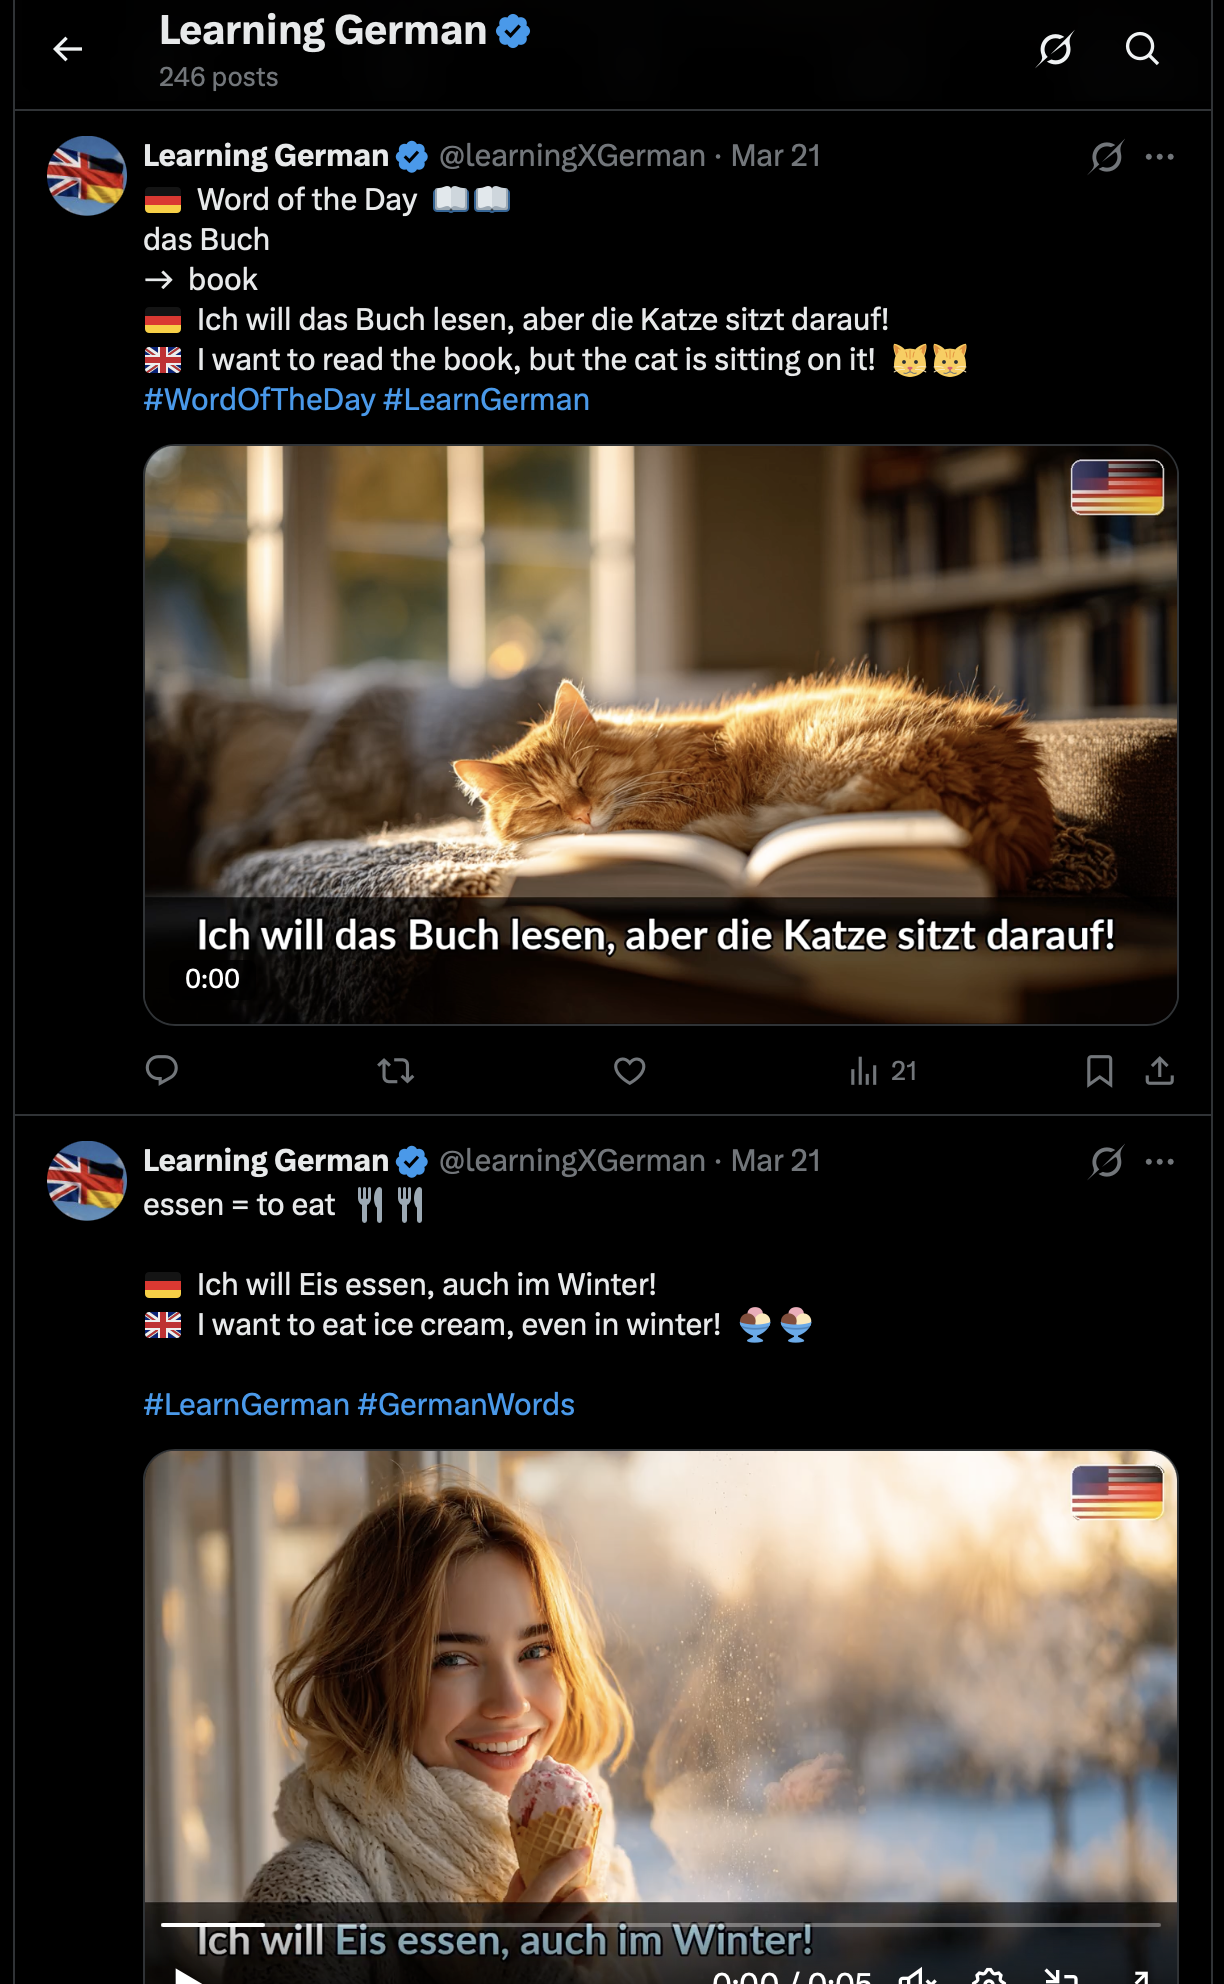
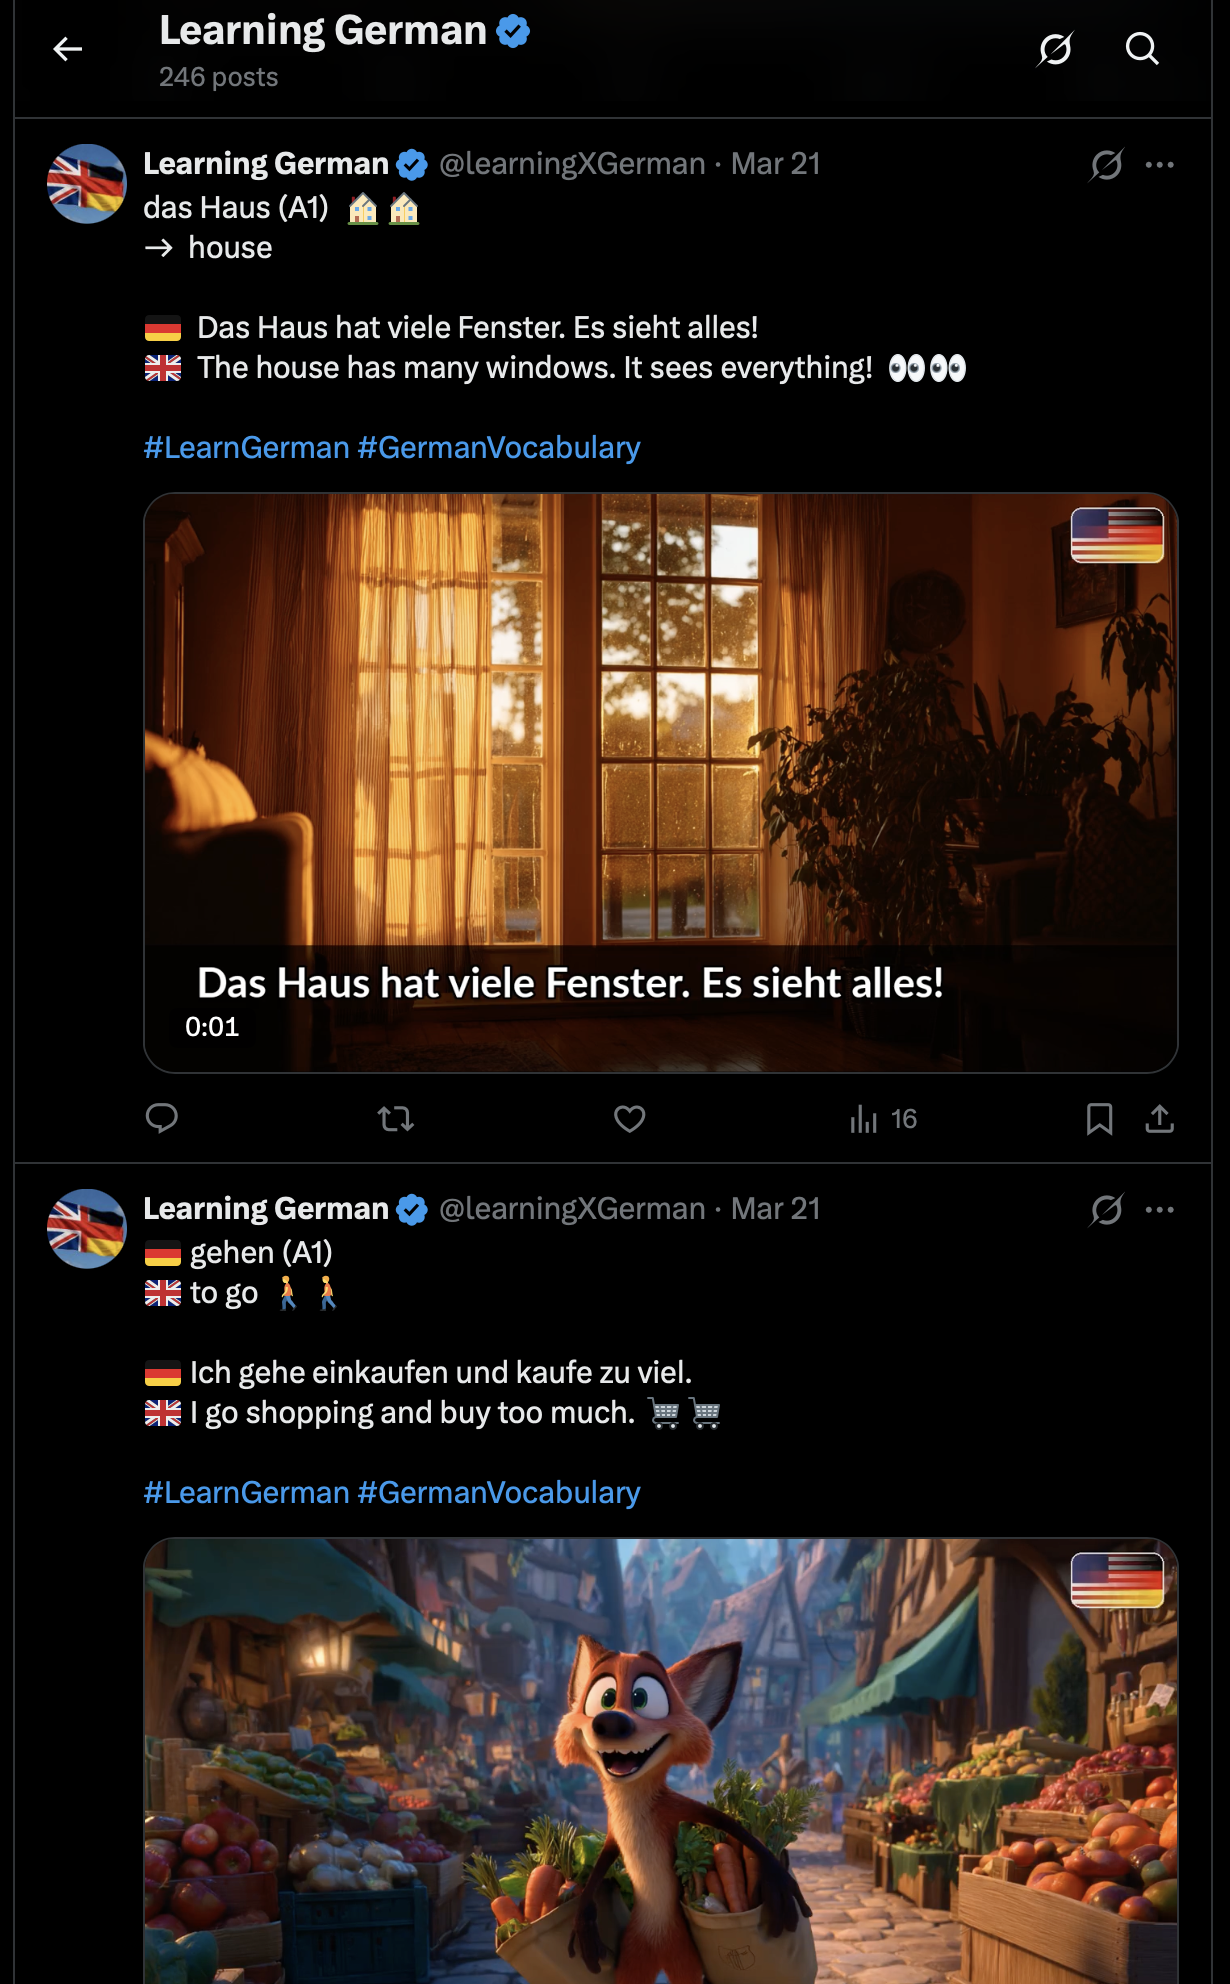
docs(README): align screenshots and settings with current bot
- Hero + gallery captions for @learningXGerman; four PNGs (01–04), remove duplicate 05
- Document ENABLE_BACKGROUND_MUSIC, z-image-turbo, WAN2.1, ComfyUI optional paths
- Settings table: IMAGE_PROVIDER options, video engine names, zit_image.py in tree

diff --git a/README.md b/README.md
@@ -1,17 +1,29 @@
 # XBot 3 — Language Learning X Bot
 
-![Example: vocabulary post with image and KTV-style video on X](Screenshots/screenshot-01.png)
+![Learning German on X — profile header and a post teaching *der Apfel* / *apple*, with AI video and KTV subtitle bar (“Mein Apfel fliegt zum Mond!”)](Screenshots/screenshot-01.png)
 
 An autonomous X (Twitter) bot that teaches vocabulary from any source language to any target language. Posts every ~5 hours with AI-generated images, karaoke-style animated videos, and native-speaker TTS audio. Self-improving: the bot analyses its own engagement and updates its content strategy automatically.
+
+The screenshots below are from **[Learning German](https://x.com/learningXGerman)** (@learningXGerman): bilingual vocabulary cards, CEFR levels, hashtags, optional language-pair flag badge on the media, and short clips with the German sentence overlaid at the bottom (KTV style).
 
 ---
 
 ## Screenshots
 
-| | |
-|:--|:--|
-| ![Screenshot 2](Screenshots/screenshot-02.png) | ![Screenshot 3](Screenshots/screenshot-03.png) |
-| ![Screenshot 4](Screenshots/screenshot-04.png) | ![Screenshot 5](Screenshots/screenshot-05.png) |
+**Pixar / Disney-style post — *die Gemütlichkeit* (B1)**  
+Cozy bedroom scene matching the joke about the alarm clock; karaoke-style German line at the bottom of the video.
+
+![Post: die Gemütlichkeit, 3D animated scene with KTV subtitles](Screenshots/screenshot-02.png)
+
+**Feed — “Word of the Day” (*das Buch*) and *essen***  
+Two posts: cat on a book, and ice cream in winter—each with matching generated video.
+
+![Feed: Word of the Day and essen posts](Screenshots/screenshot-03.png)
+
+**Feed — *das Haus* and *gehen* (A1)**  
+House with many windows and a *Zootopia*-style fox at the market—typical A1 vocabulary format.
+
+![Feed: das Haus and gehen vocabulary posts](Screenshots/screenshot-04.png)
 
 ---
 
@@ -22,10 +34,10 @@ Every cycle the bot:
 1. **Picks a vocabulary word** — chosen by the LLM based on an evolving content strategy (CEFR level, theme, style).
 2. **Writes a short example sentence** in the source language and translates both the word and the sentence to the target language.
 3. **Determines CEFR level** (A1–C2) and looks up the grammatical article (der/die/das for German nouns).
-4. **Generates an image** — via Grok Imagine or Midjourney, matching the example sentence. Multiple images are scored and ranked automatically.
+4. **Generates an image** — via Grok Imagine, Midjourney, or local **Z-Image-Turbo** (ComfyUI), matching the example sentence. Multiple images are scored and ranked automatically.
 5. **Animates the image** — optionally via Grok Imagine I2V or a local Wan2.1/2.2 model, producing a short MP4.
 6. **Generates TTS audio** — via ElevenLabs. Voice is selected per-tweet by the LLM based on the sentence mood.
-7. **Mixes background music** onto the voice track.
+7. **Optionally mixes background music** onto the voice track (`ENABLE_BACKGROUND_MUSIC=on` in `settings.env`; default off).
 8. **Renders a KTV video** — karaoke-style word-by-word highlighting synced to the audio, overlaid on the animated image.
 9. **Posts the tweet** with the video attached to X.
 10. **Waits**, then fetches engagement metrics (impressions, likes, reposts, replies, bookmarks).
@@ -102,7 +114,7 @@ nano .env
 | `SCW_SECRET_KEY` | Scaleway secret key (only if `AI_PROVIDER=scaleway`) |
 | `SCW_DEFAULT_PROJECT_ID` | Scaleway project ID (only if `AI_PROVIDER=scaleway`) |
 
-**Optional:** set `WAN_VIDEO_DIR` here if you use local Wan video (`ENABLE_VIDEO=wan`) and don’t want to edit `settings.env`.
+**Optional:** set `WAN_VIDEO_DIR` here if you use local Wan video (`ENABLE_VIDEO=WAN2.1`) and don’t want to edit `settings.env`. For Z-Image-Turbo images, set `COMFYUI_DIR` / `COMFYUI_URL` in `settings.env` if ComfyUI is not at the default path.
 
 ### Local runtime data & privacy
 
@@ -119,16 +131,17 @@ All non-secret settings live in `settings.env`. Key parameters:
 | `SOURCE_LANGUAGE` | `German` | Language being taught |
 | `TARGET_LANGUAGE` | `English` | Language of the audience |
 | `AI_PROVIDER` | `grok` | `grok` or `scaleway` |
-| `IMAGE_PROVIDER` | `grok` | `grok` or `midjourney` |
+| `IMAGE_PROVIDER` | `grok` | `grok`, `midjourney`, or `z-image-turbo` (local ComfyUI) |
 | `IMAGE_STYLE` | `photographic` | `photographic`, `disney`, or comma-separated cycle |
 | `TWEET_STYLE` | `funny,normal` | `funny`, `normal`, or comma-separated cycle |
 | `VIDEO_STYLE` | `ktv` | `ktv` (karaoke highlights) or `simple` (static) |
-| `ENABLE_VIDEO` | `grok` | `off`, `grok` (Grok I2V), or `wan` (local Wan2.1) |
+| `ENABLE_VIDEO` | `grok` | `off`, `grok` (Grok I2V), or `WAN2.1` (local Wan2.1 via Wan2GP; lowercased in code as `wan2.1`) |
 | `VIDEO_FREQUENCY` | `2` | Generate video every N tweets |
 | `WAN_VIDEO_STEPS` | `10` | Denoising steps for Wan video (higher = slower + better) |
 | `WAN_VIDEO_DIR` | `/path/to/Wan2GP` (template) | Path to Wan2GP installation — set your real path here or via `WAN_VIDEO_DIR` in `.env` |
 | `ENABLE_KEN_BURNS` | `false` | Apply Ken Burns zoom/pan when no animated video |
 | `FLAG_OVERLAY` | `true` | Add source→target language flag badge to images |
+| `ENABLE_BACKGROUND_MUSIC` | `off` | `on` / `off` (or `true` / `false`) — mix `Background Music/music.mp3` under the voice in the final video |
 | `POST_INTERVAL_SECONDS` | `18000` | Seconds between posts (18000 = 5 hours) |
 | `MAX_TWEET_LENGTH` | `500` | Max characters (280 for standard, up to 25000 for Premium) |
 | `USE_TRENDS` | `false` | `true` / `false`, or a comma cycle (e.g. `true,false,false,false`) — trends only on selected cycles; same index as `TWEET_STYLE` / `IMAGE_STYLE` |
@@ -138,7 +151,13 @@ All non-secret settings live in `settings.env`. Key parameters:
 | `AUTO_UPDATE` | `true` | Auto-pull from `origin/main` and restart between cycles |
 | `ENABLE_SELF_IMPROVEMENT` | `false` | Enable automatic code self-improvement |
 
-### 7. Add background music
+### 7. Background music (optional)
+
+By default the video uses **voice-only** audio. To mix in background music, set in `settings.env`:
+
+```
+ENABLE_BACKGROUND_MUSIC=on
+```
 
 Place a royalty-free loopable MP3 at:
 
@@ -146,7 +165,7 @@ Place a royalty-free loopable MP3 at:
 Background Music/music.mp3
 ```
 
-The voice audio is mixed with this track (music lowered by 7 dB, faded out at the end). If no file is found the bot uses voice-only audio and continues normally.
+When `ENABLE_BACKGROUND_MUSIC` is on, the voice is mixed with this track (music lowered by 7 dB, faded out at the end). If the flag is on but the file is missing, the bot uses voice-only audio and continues normally.
 
 ---
 
@@ -175,13 +194,13 @@ Set `ENABLE_VIDEO` to control what plays behind the KTV overlay:
 |---|---|---|
 | `off` | Static image (or Ken Burns pan if `ENABLE_KEN_BURNS=true`) | instant |
 | `grok` | Grok Imagine I2V — cloud API, 720p, ~15 s | ~15 s |
-| `wan` | Local Wan2.1/2.2 via Wan2GP — 480p, runs entirely on your GPU | ~7–40 min |
+| `WAN2.1` | Local Wan2.1/2.2 via Wan2GP — 480p, runs entirely on your GPU | ~7–40 min |
 
 `VIDEO_FREQUENCY=N` skips animation every N-1 out of N tweets to reduce cost or generation time.
 
 ### Local Wan2GP setup (optional)
 
-To use `ENABLE_VIDEO=wan` you need [Wan2GP](https://github.com/deepbeepmeep/Wan2GP) installed alongside this project and `run_i2v.py` present in the Wan2GP directory. Set `WAN_VIDEO_DIR` in `settings.env` to its path.
+To use `ENABLE_VIDEO=WAN2.1` you need [Wan2GP](https://github.com/deepbeepmeep/Wan2GP) installed alongside this project and `wgp.py` present in the Wan2GP directory. Set `WAN_VIDEO_DIR` in `settings.env` to its path.
 
 ---
 
@@ -276,7 +295,7 @@ XBot 3/
 ├── .env.example                   # Template for .env
 ├── nodes/
 │   ├── generate_content.py        # Word selection, sentence, translation, tweet assembly
-│   ├── generate_image.py          # Image generation (Grok Imagine or Midjourney) + ranking
+│   ├── generate_image.py          # Image generation (Grok, Midjourney, or Z-Image-Turbo) + ranking
 │   ├── generate_audio.py          # ElevenLabs TTS — voice selection + karaoke timings
 │   ├── create_video.py            # Audio mix, video animation, KTV overlay
 │   ├── publish.py                 # Post tweet with video to X
@@ -289,6 +308,7 @@ XBot 3/
 │   ├── scaleway_ai.py             # Scaleway Llama client
 │   ├── grok_video.py              # Grok Imagine I2V service
 │   ├── wan_video.py               # Local Wan2.1/2.2 I2V service (via Wan2GP)
+│   ├── zit_image.py               # Z-Image-Turbo via ComfyUI (IMAGE_PROVIDER=z-image-turbo)
 │   ├── image_ranker.py            # ImageReward scoring for image selection
 │   ├── voice_pool.py              # ElevenLabs voice management
 │   ├── language_config.py         # AI-derived language pair config + caching
